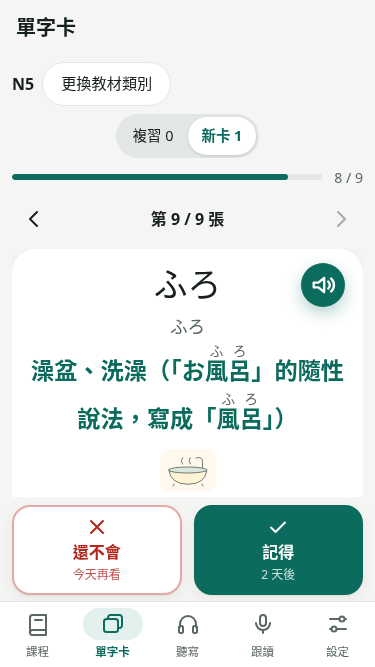
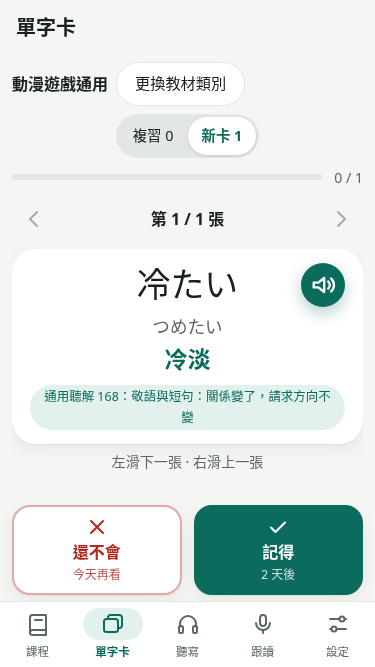
docs(T156): show unillustrated cold-attitude sense and hidden front

diff --git a/docs/vocab-illustration-t156.md b/docs/vocab-illustration-t156.md
@@ -358,6 +358,7 @@
 - [卡片299](previews/t156-card-299-375.png)
 - [卡片300](previews/t156-card-300-375.png)
 - [舊圖地圖](previews/t156-old-map-375.png)
-- [無圖卡](previews/t156-unmapped-375.png)
+- [無圖卡：冷淡義](previews/t156-unmapped-375.png)
+- [部屋揭示前](previews/t156-room-front-375.png)
 
 334 tests／check、正式base build、perf及本機完整驗證見[vocab-illustration-t156-validation.json](vocab-illustration-t156-validation.json)。正式站與最新CI待核對，最終發布證據集中於本輪PR。
